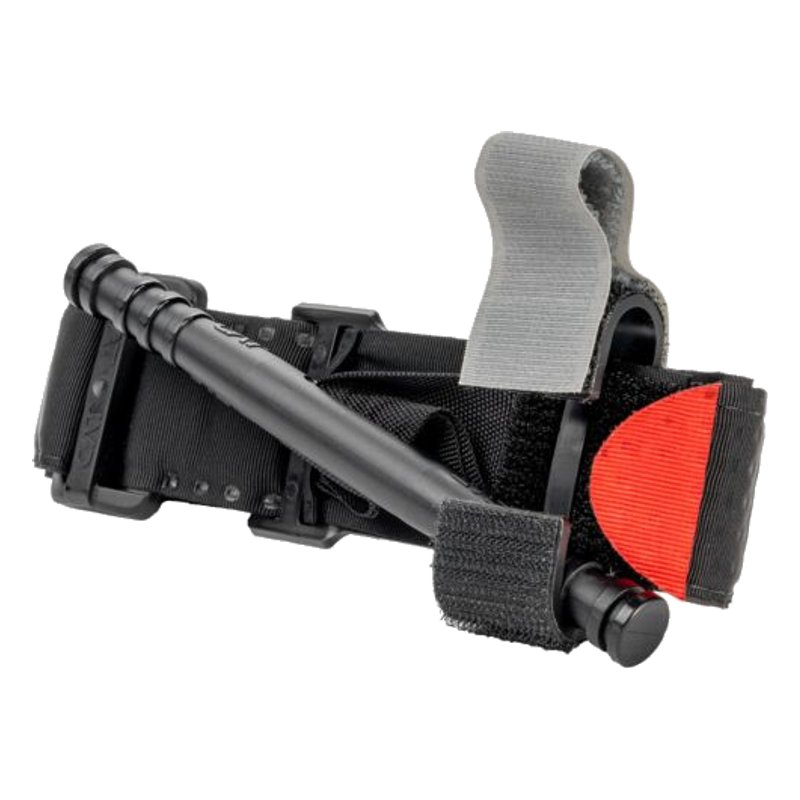
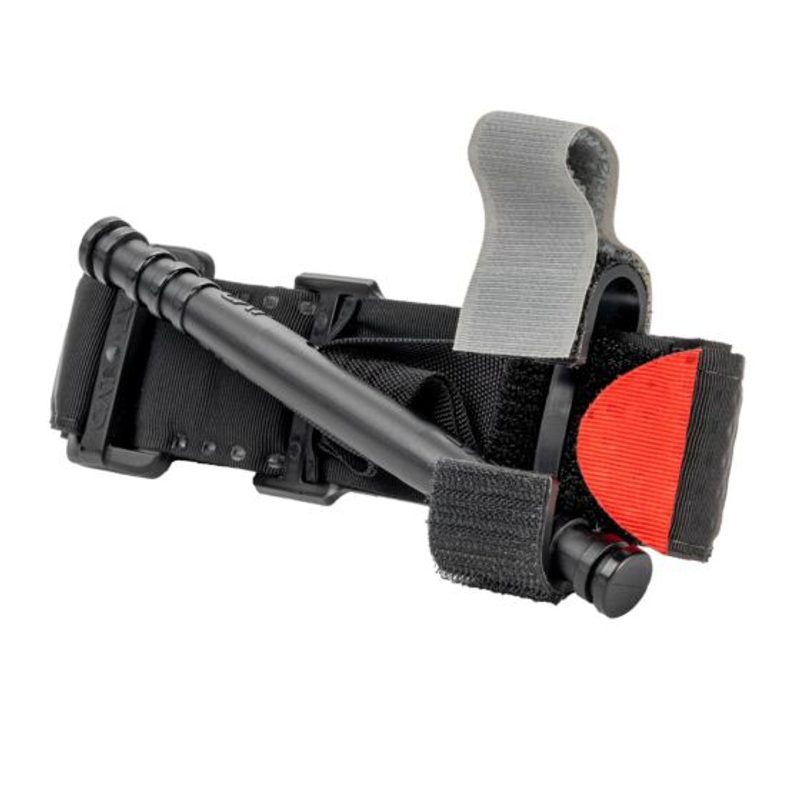
Revert product photo whitening/trimming, keep it only for the SnakeStaff kit
The whiten-and-trim pass clipped real product content that happened to be white or near-white (packaging edges, gauze, dressings), cutting pieces off several photos. Reverting to the original simple resize-and-flatten treatment for everything except the SnakeStaff Pocket Protector image, which is a flat infographic layout that benefited from it.

Changed region(s): [[0.0312, 0.125, 0.9688, 0.8438]]

diff --git a/shop.html b/shop.html
@@ -87,7 +87,7 @@
     .product-card:hover { border-color: var(--red); }
     .product-card-image { position: relative; aspect-ratio: 1 / 1; background: var(--white); display: flex; align-items: center; justify-content: center; overflow: hidden; }
     .product-card-image svg { width: 30%; height: 30%; stroke: var(--red); fill: none; stroke-width: 1.5; stroke-linecap: round; stroke-linejoin: round; opacity: 0.85; }
-    .product-card-photo { width: 100%; height: 100%; object-fit: contain; padding: 6%; box-sizing: border-box; }
+    .product-card-photo { width: 100%; height: 100%; object-fit: contain; padding: 12%; box-sizing: border-box; }
     .product-card-cat { position: absolute; top: 10px; left: 10px; background: rgba(17,17,17,0.85); color: var(--white); font-family: 'Barlow Condensed', sans-serif; font-size: 10px; font-weight: 700; letter-spacing: 0.06em; text-transform: uppercase; padding: 4px 8px; }
     .product-card-badge { position: absolute; top: 10px; right: 10px; background: var(--gold); color: var(--dark); font-family: 'Barlow Condensed', sans-serif; font-size: 10px; font-weight: 700; letter-spacing: 0.06em; text-transform: uppercase; padding: 4px 8px; }
     .product-card-brand { font-size: 11px; color: var(--gray-light); margin-top: -2px; }
